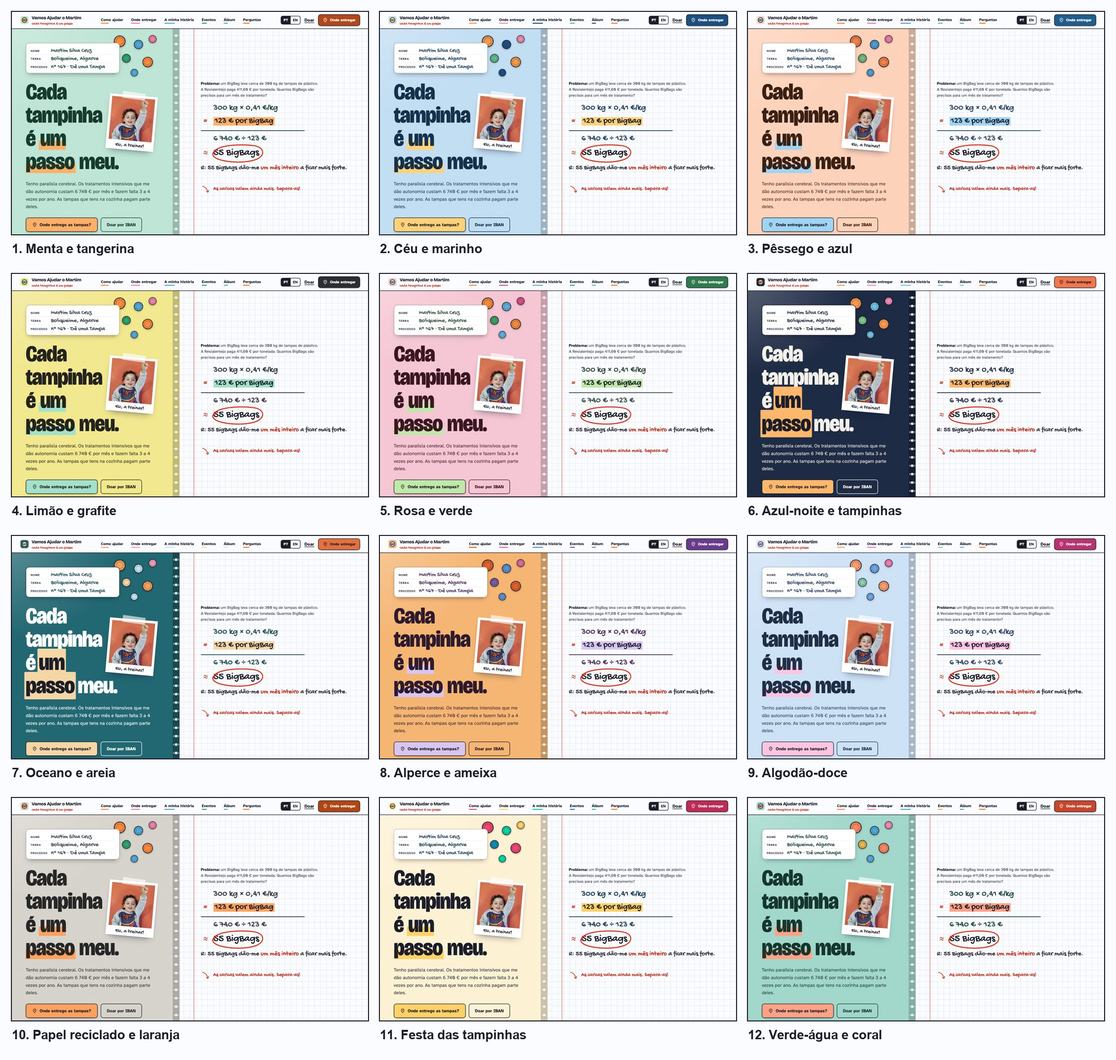
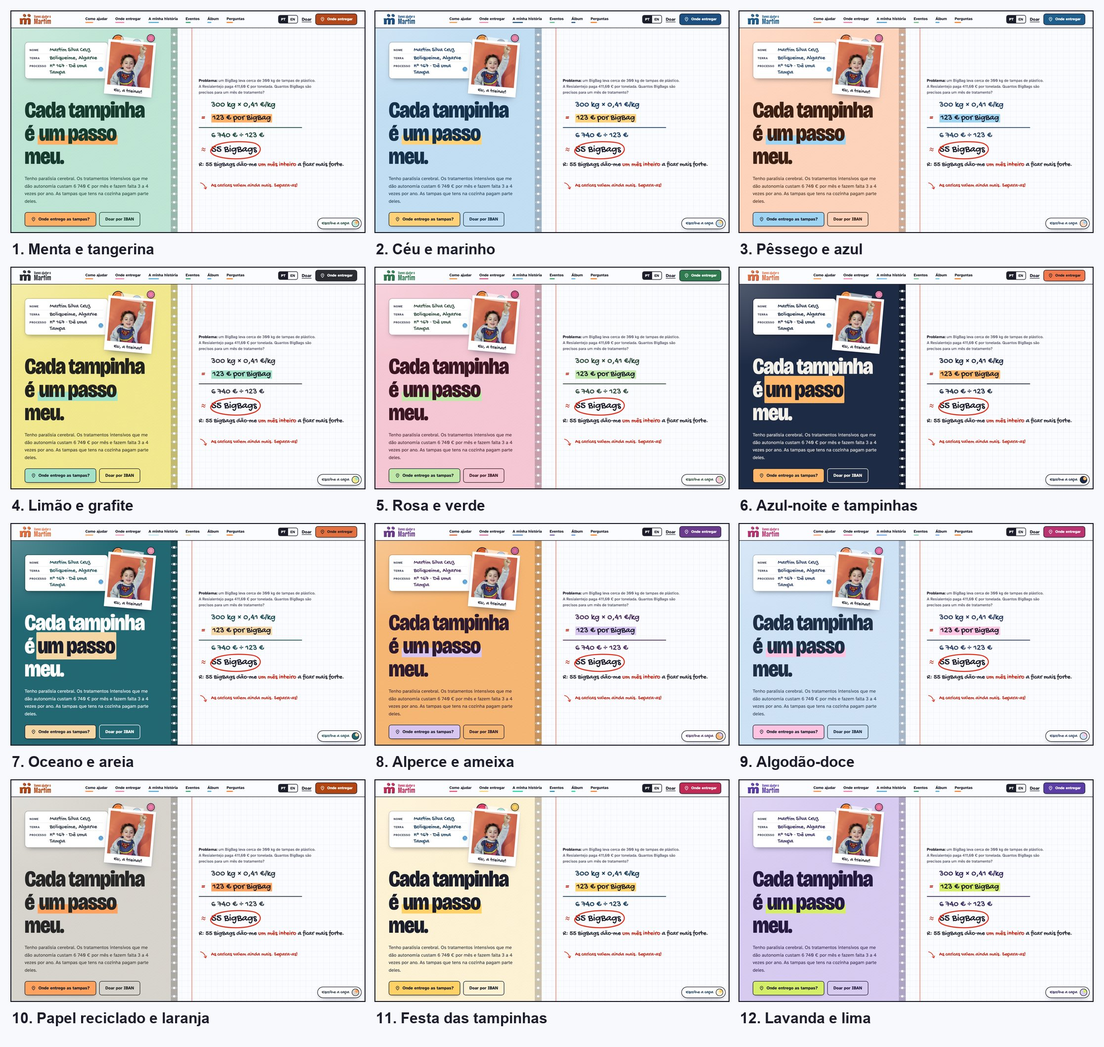
Capa 12 passa a Lavanda e lima; dica de cor no diploma; título do hero abaixo da foto; folha das 12 capas atualizada

diff --git a/mockup/js/site.js b/mockup/js/site.js
@@ -22,11 +22,11 @@ const PALETTES={
  algodao:{n:'Algodão-doce',cover:'#CFE3F7',on:'#1E2F45',hl:'#FFC4E1',pen:'#2B3F66',act:'#B8336F',ai:'#fff',caps:['#FF9C6B','#F07AB2','#6BA7E8','#8AD1B0']},
  reciclado:{n:'Papel reciclado e laranja',cover:'#D8D5CE',on:'#262626',hl:'#FFA25F',pen:'#2F3A45',act:'#B24612',ai:'#fff',caps:['#FF8A3D','#EE7FA8','#4FA8D8','#2FA36B']},
  festa:{n:'Festa das tampinhas',cover:'#FFF3D6',on:'#1B1D2A',hl:'#FFD166',pen:'#1A3E5C',act:'#C02A55',ai:'#fff',caps:['#EF476F','#FFD166','#06D6A0','#118AB2']},
- agua:{n:'Verde-água e coral',cover:'#A2D9CC',on:'#15352E',hl:'#FFA286',pen:'#1D4A42',act:'#C9452B',ai:'#fff',caps:['#FF8660','#F08AB0','#4FA8D8','#E8B84A']}
+ lavanda:{n:'Lavanda e lima',cover:'#D8CCF2',on:'#241A40',hl:'#D4EE6A',pen:'#34295E',act:'#5B3DA6',ai:'#fff',caps:['#FF8A3D','#F27BA5','#4FA8D8','#2FA36B']}
 };
-const NAMES_EN={menta:'Mint and tangerine',ceu:'Sky and navy',pessego:'Peach and blue',limao:'Lemon and graphite',rosa:'Pink and green',noite:'Midnight and caps',oceano:'Ocean and sand',alperce:'Apricot and plum',algodao:'Candyfloss',reciclado:'Recycled paper and orange',festa:'Bottle-cap party',agua:'Aqua and coral'};
+const NAMES_EN={menta:'Mint and tangerine',ceu:'Sky and navy',pessego:'Peach and blue',limao:'Lemon and graphite',rosa:'Pink and green',noite:'Midnight and caps',oceano:'Ocean and sand',alperce:'Apricot and plum',algodao:'Candyfloss',reciclado:'Recycled paper and orange',festa:'Bottle-cap party',lavanda:'Lavender and lime'};
 function palName(id){return EN?(NAMES_EN[id]||PALETTES[id].n):PALETTES[id].n}
-let PICKER=['menta','ceu','pessego','limao','rosa','noite','oceano','alperce','algodao','reciclado','festa','agua'];
+let PICKER=['menta','ceu','pessego','limao','rosa','noite','oceano','alperce','algodao','reciclado','festa','lavanda'];
 const root=document.documentElement;
 const FAV="<svg xmlns=\"http://www.w3.org/2000/svg\" viewBox=\"0 0 121.37 121.37\"><circle fill=\"{bg}\" cx=\"60.68\" cy=\"60.68\" r=\"60.68\"/><path fill=\"{b}\" d=\"M72.25,73.72c-.21,3.27-.42,6.44-.63,9.49-.11,1.31-.21,2.66-.31,4.05-.11,1.39-.22,2.75-.35,4.07-.13,1.32-.25,2.59-.35,3.8-.1,1.21-.21,2.28-.31,3.21l-17.17.86c.03-.25-1.53-1.53-1.53-1.53l1.72-.09c.33-2.94.61-5.55.83-7.85.26-2.71.46-5.04.59-6.99.13-1.95.22-3.58.27-4.89.05-1.31.06-2.36.04-3.15-.03-.79-.05-1.38-.08-1.76-.03-.38-.04-.63-.04-.74,0-1.53-.12-2.77-.35-3.72-.24-.95-.56-1.7-.98-2.25-.42-.54-.93-.91-1.53-1.1-.6-.19-1.27-.29-2-.29-.94,0-1.89.09-2.86.27-.97.18-1.83.53-2.59,1.06-.38.27-3.65.09-3.65.09,0,0,2.05,1.69,1.81,2.18-.47.98-.71,2.29-.71,3.93,0,3.11.01,6.14.04,9.1.03,2.96.09,5.62.2,8,.05,2.75.13,5.39.24,7.89l-18.66.9c.03-.2-1.53-1.53-1.53-1.53l1.75-.08c.3-2.33.5-4.61.6-6.85.13-2.75.2-5.23.2-7.44,0-4.14-.17-8.25-.51-12.33-.34-4.08-.93-8.31-1.76-12.7,3.34-.05,6.09-.12,8.23-.2,2.14-.08,3.84-.18,5.1-.29,1.46-.11,2.59-.23,3.37-.37l.16,4.95c1.1-.93,2.31-1.8,3.65-2.62,1.33-.82,2.73-1.52,4.19-2.11,1.46-.59,2.99-1.05,4.59-1.39,1.59-.34,3.23-.51,4.9-.51,1.88,0,3.54.08,4.98.22,1.44.15,2.69.44,3.76.86,1.07.42,1.97,1.01,2.7,1.76.73.75,1.36,1.71,1.88,2.88.94-.76,1.97-1.49,3.1-2.19,1.12-.7,2.35-1.31,3.68-1.84,1.33-.53,2.76-.95,4.27-1.25,1.51-.3,3.19-.45,5.02-.45,2.87,0,5.3.18,7.29.53,1.99.35,3.59,1.07,4.82,2.15,1.23,1.08,2.12,2.6,2.67,4.58.55,1.98.82,4.59.82,7.83,0,4.66-.21,9.33-.63,14.01-.42,4.68-.86,9.5-1.33,14.46l-17.17.86c.03-.21-1.53-1.53-1.53-1.53l1.73-.08c.52-4.31.89-7.99,1.09-11.04.24-3.42.38-6.18.43-8.28.05-2.1.05-3.62,0-4.56-.05-.94-.08-1.47-.08-1.57,0-1.5-.14-2.73-.43-3.68-.29-.95-.68-1.7-1.18-2.23-.5-.53-1.07-.89-1.72-1.08-.65-.19-1.37-.29-2.16-.29-.47,0-.99.02-1.57.06-.58.04-1.18.18-1.8.41-.63.23-1.24.59-1.84,1.08-.3.25-3.48.08-3.48.08,0,0,1.52,1.32,1.8,1.96.32.76.25,2.32.27,3.27.03.95.04,1.62.04,2Z\"/><path fill=\"{b}\" d=\"M101.26,34.37c0,1.29-.21,2.49-.63,3.6s-1.04,2.07-1.88,2.88-1.89,1.45-3.16,1.91-2.77.69-4.48.69c-1.88,0-3.45-.23-4.73-.69s-2.32-1.1-3.13-1.91-1.4-1.77-1.75-2.88-.53-2.31-.53-3.6.19-2.43.56-3.54c.38-1.11.97-2.08,1.78-2.91s1.87-1.49,3.16-1.97,2.84-.72,4.63-.72,3.33.24,4.6.72,2.32,1.14,3.13,1.97,1.42,1.81,1.82,2.91.59,2.29.59,3.54Z\"/><path fill=\"{b}\" d=\"M67.84,34.37c0,1.29-.21,2.49-.63,3.6-.42,1.11-1.04,2.07-1.88,2.88s-1.89,1.45-3.16,1.91-2.77.69-4.48.69c-1.88,0-3.45-.23-4.73-.69s-2.32-1.1-3.13-1.91-1.4-1.77-1.75-2.88-.53-2.31-.53-3.6.19-2.43.56-3.54c.38-1.11.97-2.08,1.78-2.91s1.87-1.49,3.16-1.97,2.84-.72,4.63-.72,3.33.24,4.6.72,2.32,1.14,3.13,1.97,1.42,1.81,1.82,2.91.59,2.29.59,3.54Z\"/><path fill=\"{c}\" d=\"M70.72,72.19c-.21,3.27-.42,6.44-.63,9.49-.11,1.31-.21,2.66-.31,4.05-.11,1.39-.22,2.75-.35,4.07-.13,1.32-.25,2.59-.35,3.8-.1,1.21-.21,2.28-.31,3.21l-15.45.77-1.72.09c.02-.17-1.53-1.53-1.53-1.53l1.73-.09c.34-2.97.6-5.53.83-7.85.26-2.71.46-5.04.59-6.99.13-1.95.22-3.58.27-4.89.05-1.31.06-2.36.04-3.15-.03-.79-.05-1.38-.08-1.76-.03-.38-.04-.63-.04-.74,0-1.53-.12-2.77-.35-3.72-.24-.95-.56-1.7-.98-2.25-.42-.54-.93-.91-1.53-1.1-.6-.19-1.27-.29-2-.29-.94,0-1.89.09-2.86.27-.97.18-1.83.53-2.59,1.06-.38.27-3.57.31-3.57.31,0,0,1.96,1.47,1.73,1.96-.47.98-.71,2.29-.71,3.93,0,3.11.01,6.14.04,9.1.03,2.96.09,5.62.2,8,.05,2.75.13,5.39.24,7.89l-16.91.82-.98.05-.77.04c.03-.24-1.53-1.53-1.53-1.53l1.75-.09c.3-2.33.5-4.61.6-6.84.13-2.75.2-5.23.2-7.44,0-4.14-.17-8.25-.51-12.33-.34-4.08-.93-8.31-1.76-12.7,3.34-.05,6.09-.12,8.23-.2,2.14-.08,3.84-.18,5.1-.29,1.46-.11,2.59-.23,3.37-.37l.16,4.95c1.1-.93,2.31-1.8,3.65-2.62,1.33-.82,2.73-1.52,4.19-2.11,1.46-.59,2.99-1.05,4.59-1.39,1.59-.34,3.23-.51,4.9-.51,1.88,0,3.54.08,4.98.22,1.44.15,2.69.44,3.76.86,1.07.42,1.97,1.01,2.7,1.76.73.75,1.36,1.71,1.88,2.88.94-.76,1.97-1.49,3.1-2.19,1.12-.7,2.35-1.31,3.68-1.84,1.33-.53,2.76-.95,4.27-1.25,1.51-.3,3.19-.45,5.02-.45,2.87,0,5.3.18,7.29.53,1.99.35,3.59,1.07,4.82,2.15,1.23,1.08,2.12,2.6,2.67,4.58.55,1.98.82,4.59.82,7.83,0,4.66-.21,9.33-.63,14.01-.42,4.68-.86,9.5-1.33,14.46l-15.45.77-1.71.09c.02-.17-1.53-1.53-1.53-1.53l1.75-.09c.53-4.35.86-7.97,1.07-11.04.24-3.42.38-6.18.43-8.28.05-2.1.05-3.62,0-4.56-.05-.94-.08-1.47-.08-1.57,0-1.5-.14-2.73-.43-3.68-.29-.95-.68-1.7-1.18-2.23-.5-.53-1.07-.89-1.72-1.08-.65-.19-1.37-.29-2.16-.29-.47,0-.99.02-1.57.06-.58.04-1.18.18-1.8.41-.63.23-1.24.59-1.84,1.08-.3.25-3.48.11-3.48.11,0,0,1.52,1.3,1.8,1.93.32.76.25,2.32.27,3.27.03.95.04,1.62.04,2Z\"/><path fill=\"{c}\" d=\"M99.73,32.84c0,1.29-.21,2.49-.63,3.6s-1.04,2.07-1.88,2.88-1.89,1.45-3.16,1.91-2.77.69-4.48.69c-1.88,0-3.45-.23-4.73-.69s-2.32-1.1-3.13-1.91-1.4-1.77-1.75-2.88c-.35-1.11-.53-2.31-.53-3.6s.19-2.43.56-3.54.97-2.08,1.78-2.91c.81-.83,1.87-1.49,3.16-1.97s2.84-.72,4.63-.72,3.33.24,4.6.72,2.32,1.14,3.13,1.97,1.42,1.81,1.82,2.91.59,2.29.59,3.54Z\"/><path fill=\"{c}\" d=\"M66.31,32.84c0,1.29-.21,2.49-.63,3.6s-1.04,2.07-1.88,2.88-1.89,1.45-3.16,1.91-2.77.69-4.48.69c-1.88,0-3.45-.23-4.73-.69s-2.32-1.1-3.13-1.91c-.81-.81-1.4-1.77-1.75-2.88s-.53-2.31-.53-3.6.19-2.43.56-3.54c.38-1.11.97-2.08,1.78-2.91s1.87-1.49,3.16-1.97,2.84-.72,4.63-.72,3.33.24,4.6.72,2.32,1.14,3.13,1.97,1.42,1.81,1.82,2.91.59,2.29.59,3.54Z\"/><path fill=\"{d}\" d=\"M69.19,70.66c-.21,3.27-.42,6.44-.63,9.49-.11,1.31-.21,2.66-.31,4.05-.11,1.39-.22,2.75-.35,4.07-.13,1.32-.25,2.59-.35,3.8-.1,1.21-.21,2.28-.31,3.21l-17.17.86c.42-3.6.76-6.75,1.02-9.47.26-2.71.46-5.04.59-6.99.13-1.95.22-3.58.27-4.89.05-1.31.06-2.36.04-3.15-.03-.79-.05-1.38-.08-1.76-.03-.38-.04-.63-.04-.74,0-1.53-.12-2.77-.35-3.72-.24-.95-.56-1.7-.98-2.25-.42-.54-.93-.91-1.53-1.1-.6-.19-1.27-.29-2-.29-.94,0-1.89.09-2.86.27-.97.18-1.83.53-2.59,1.06-.38.27-3.72.84-3.72.84,0,0,2.11.94,1.88,1.43-.47.98-.71,2.29-.71,3.93,0,3.11.01,6.14.04,9.1.03,2.96.09,5.62.2,8,.05,2.75.13,5.39.24,7.89l-18.66.9c.42-2.89.69-5.71.82-8.47.13-2.75.2-5.23.2-7.44,0-4.14-.17-8.25-.51-12.33-.34-4.08-.93-8.31-1.76-12.7,3.34-.05,6.09-.12,8.23-.2,2.14-.08,3.84-.18,5.1-.29,1.46-.11,2.59-.23,3.37-.37l.16,4.95c1.1-.93,2.31-1.8,3.65-2.62,1.33-.82,2.73-1.52,4.19-2.11,1.46-.59,2.99-1.05,4.59-1.39,1.59-.34,3.23-.51,4.9-.51,1.88,0,3.54.08,4.98.22,1.44.15,2.69.44,3.76.86,1.07.42,1.97,1.01,2.7,1.76.73.75,1.36,1.71,1.88,2.88.94-.76,1.97-1.49,3.1-2.19,1.12-.7,2.35-1.31,3.68-1.84,1.33-.53,2.76-.95,4.27-1.25,1.51-.3,3.19-.45,5.02-.45,2.87,0,5.3.18,7.29.53,1.99.35,3.59,1.07,4.82,2.15,1.23,1.08,2.12,2.6,2.67,4.58.55,1.98.82,4.59.82,7.83,0,4.66-.21,9.33-.63,14.01-.42,4.68-.86,9.5-1.33,14.46l-17.17.86c.63-5.02,1.06-9.24,1.29-12.66.24-3.42.38-6.18.43-8.28.05-2.1.05-3.62,0-4.56-.05-.94-.08-1.47-.08-1.57,0-1.5-.14-2.73-.43-3.68-.29-.95-.68-1.7-1.18-2.23-.5-.53-1.07-.89-1.72-1.08-.65-.19-1.37-.29-2.16-.29-.47,0-.99.02-1.57.06-.58.04-1.18.18-1.8.41-.63.23-1.24.59-1.84,1.08-.3.25-3.53.05-3.53.05,0,0,1.57,1.37,1.85,1.99.34.75.25,2.32.27,3.27.03.95.04,1.62.04,2Z\"/><path fill=\"{d}\" d=\"M98.2,31.31c0,1.29-.21,2.49-.63,3.6s-1.04,2.07-1.88,2.88c-.83.81-1.89,1.45-3.16,1.91s-2.77.69-4.48.69c-1.88,0-3.45-.23-4.73-.69s-2.32-1.1-3.13-1.91-1.4-1.77-1.75-2.88c-.35-1.11-.53-2.31-.53-3.6s.19-2.43.56-3.54c.38-1.11.97-2.08,1.78-2.91s1.87-1.49,3.16-1.97,2.84-.72,4.63-.72,3.33.24,4.6.72,2.32,1.14,3.13,1.97,1.42,1.81,1.82,2.91.59,2.29.59,3.54Z\"/><path fill=\"{d}\" d=\"M64.78,31.31c0,1.29-.21,2.49-.63,3.6s-1.04,2.07-1.88,2.88c-.83.81-1.89,1.45-3.16,1.91s-2.77.69-4.48.69c-1.88,0-3.45-.23-4.73-.69s-2.32-1.1-3.13-1.91-1.4-1.77-1.75-2.88c-.35-1.11-.53-2.31-.53-3.6s.19-2.43.56-3.54.97-2.08,1.78-2.91,1.87-1.49,3.16-1.97,2.84-.72,4.63-.72,3.33.24,4.6.72,2.32,1.14,3.13,1.97c.81.83,1.42,1.81,1.82,2.91.4,1.11.59,2.29.59,3.54Z\"/><path fill=\"#fff\" d=\"M48.51,31.96s.07.11.16.24c.63.97,1.53,1.75,2.52,2.3,2.62,1.47,6.25,1.39,8.43-.84.44-.44.71-.82.99-1.37.05-.1.15-.3.15-.3,0,0-.09.52-.15.69-.24.74-.94,1.91-1.8,2.54-2.75,2.04-6.94,1.45-9.17-1.12-.47-.54-.82-1.15-1.05-1.84-.05-.16-.08-.29-.08-.29Z\"/><path fill=\"#fff\" d=\"M51.22,26.12c-.79,0-1.42.96-1.42,2.15s.64,2.15,1.42,2.15,1.42-.96,1.42-2.15-.64-2.15-1.42-2.15ZM51.22,30.07c-.61,0-1.11-.75-1.11-1.67s.5-1.67,1.11-1.67,1.11.75,1.11,1.67-.5,1.67-1.11,1.67Z\"/><ellipse fill=\"#fff\" cx=\"51.38\" cy=\"27.9\" rx=\".53\" ry=\".79\" transform=\"translate(-3.97 9.08) rotate(-9.72)\"/><path fill=\"#fff\" d=\"M58.12,26.12c-.79,0-1.42.96-1.42,2.15s.64,2.15,1.42,2.15,1.42-.96,1.42-2.15-.64-2.15-1.42-2.15ZM58.12,30.07c-.61,0-1.11-.75-1.11-1.67s.5-1.67,1.11-1.67,1.11.75,1.11,1.67-.5,1.67-1.11,1.67Z\"/><ellipse fill=\"#fff\" cx=\"58.29\" cy=\"27.81\" rx=\".53\" ry=\".79\" transform=\"translate(-3.86 10.24) rotate(-9.72)\"/><path fill=\"#fff\" d=\"M81.93,31.96s.07.11.16.24c.63.97,1.53,1.75,2.52,2.3,2.62,1.47,6.25,1.39,8.43-.84.44-.44.71-.82.99-1.37.05-.1.15-.3.15-.3,0,0-.09.52-.15.69-.24.74-.94,1.91-1.8,2.54-2.75,2.04-6.94,1.45-9.17-1.12-.47-.54-.82-1.15-1.05-1.84-.05-.16-.08-.29-.08-.29Z\"/><path fill=\"#fff\" d=\"M90.04,28.26c0,1.18.64,2.15,1.42,2.15s1.42-.96,1.42-2.15c0-1.18-.64-2.15-1.42-2.15s-1.42.96-1.42,2.15ZM90.36,28.4c0-.92.5-1.67,1.11-1.67s1.11.75,1.11,1.67c0,.92-.5,1.67-1.11,1.67s-1.11-.75-1.11-1.67Z\"/><ellipse fill=\"#fff\" cx=\"91.31\" cy=\"27.9\" rx=\".79\" ry=\".53\" transform=\"translate(48.39 113.19) rotate(-80.28)\"/><path fill=\"#fff\" d=\"M83.15,28.26c0,1.18.64,2.15,1.42,2.15s1.42-.96,1.42-2.15c0-1.18-.64-2.15-1.42-2.15s-1.42.96-1.42,2.15ZM83.46,28.4c0-.92.5-1.67,1.11-1.67s1.11.75,1.11,1.67-.5,1.67-1.11,1.67-1.11-.75-1.11-1.67Z\"/><ellipse fill=\"#fff\" cx=\"84.4\" cy=\"27.81\" rx=\".79\" ry=\".53\" transform=\"translate(42.74 106.3) rotate(-80.28)\"/></svg>";
 /* escurece a cor até ter contraste mínimo sobre o papel (letras do logótipo) */

diff --git a/mockup/en/index.html b/mockup/en/index.html
@@ -17,7 +17,7 @@
 <link rel="preconnect" href="https://fonts.googleapis.com">
 <link rel="preconnect" href="https://fonts.gstatic.com" crossorigin>
 <link href="https://fonts.googleapis.com/css2?family=Atkinson+Hyperlegible:ital,wght@0,400;0,700;1,400&family=Bricolage+Grotesque:opsz,wdth,wght@12..96,75..100,400..800&family=Gochi+Hand&display=swap" rel="stylesheet">
-<link rel="stylesheet" href="../css/site.css?v=202609251813">
+<link rel="stylesheet" href="../css/site.css?v=202609251819">
 </head>
 <body>
 
@@ -244,6 +244,7 @@
           </div>
         </div>
         <div class="dip-actions"><button class="btn btn-red" type="button" id="dip-save"><svg aria-hidden="true"><use href="#i-down"/></svg>Save diploma</button><button class="btn btn-line" type="button" id="again">Play again</button></div>
+        <p class="dip-tip hand">Tip: the diploma changes colour with the cover. <button type="button" class="dip-tip-btn" id="dip-cover">Pick another cover</button> and save it in your favourite colour.</p>
         <div class="share" id="game-share" data-share-url="#ficha" data-share-text="">
           <span class="share-label">Challenge your friends:</span>
           <button class="btn btn-red share-native" type="button" data-share="native" hidden><svg aria-hidden="true"><use href="#i-share"/></svg>Share</button>
@@ -721,6 +722,7 @@ async function diplomaPNG(){
   x.font='800 30px "Bricolage Grotesque", sans-serif';x.fillText(LNG?'FRIEND OF':'AMIGO DO',0,-18);x.fillText('MARTIM',0,16);x.font='800 40px "Bricolage Grotesque", sans-serif';x.fillText('167',0,62);x.restore();
   return new Promise(r=>c.toBlob(r,'image/png'));
 }
+document.getElementById('dip-cover').addEventListener('click',e=>{e.stopPropagation();const t=document.querySelector('.paleta-toggle');if(t&&t.getAttribute('aria-expanded')!=='true')t.click()});
 document.getElementById('dip-save').addEventListener('click',async()=>{
   const blob=await diplomaPNG(),name=(LNG?'friend-of-martim-diploma':'diploma-amigo-do-martim')+'.png',file=new File([blob],name,{type:'image/png'});
   if(navigator.canShare&&navigator.canShare({files:[file]})){try{await navigator.share({files:[file],title:LNG?'Friend of Martim Diploma':'Diploma de Amigo do Martim',text:shareTxt()});return}catch(e){if(e.name==='AbortError')return}}
@@ -752,6 +754,6 @@ track.querySelectorAll('.play').forEach(b=>b.addEventListener('click',()=>{
 }));
 updCount();
 </script>
-<script src="../js/site.js?v=202609251813"></script>
+<script src="../js/site.js?v=202609251819"></script>
 </body>
 </html>

diff --git a/mockup/index.html b/mockup/index.html
@@ -17,7 +17,7 @@
 <link rel="preconnect" href="https://fonts.googleapis.com">
 <link rel="preconnect" href="https://fonts.gstatic.com" crossorigin>
 <link href="https://fonts.googleapis.com/css2?family=Atkinson+Hyperlegible:ital,wght@0,400;0,700;1,400&family=Bricolage+Grotesque:opsz,wdth,wght@12..96,75..100,400..800&family=Gochi+Hand&display=swap" rel="stylesheet">
-<link rel="stylesheet" href="css/site.css?v=202609251813">
+<link rel="stylesheet" href="css/site.css?v=202609251819">
 </head>
 <body>
 
@@ -244,6 +244,7 @@
           </div>
         </div>
         <div class="dip-actions"><button class="btn btn-red" type="button" id="dip-save"><svg aria-hidden="true"><use href="#i-down"/></svg>Guardar diploma</button><button class="btn btn-line" type="button" id="again">Jogar outra vez</button></div>
+        <p class="dip-tip hand">Dica: o diploma muda de cor com a capa. <button type="button" class="dip-tip-btn" id="dip-cover">Escolhe outra capa</button> e guarda-o na tua cor preferida.</p>
         <div class="share" id="game-share" data-share-url="#ficha" data-share-text="">
           <span class="share-label">Desafia os teus amigos:</span>
           <button class="btn btn-red share-native" type="button" data-share="native" hidden><svg aria-hidden="true"><use href="#i-share"/></svg>Partilhar</button>
@@ -721,6 +722,7 @@ async function diplomaPNG(){
   x.font='800 30px "Bricolage Grotesque", sans-serif';x.fillText(LNG?'FRIEND OF':'AMIGO DO',0,-18);x.fillText('MARTIM',0,16);x.font='800 40px "Bricolage Grotesque", sans-serif';x.fillText('167',0,62);x.restore();
   return new Promise(r=>c.toBlob(r,'image/png'));
 }
+document.getElementById('dip-cover').addEventListener('click',e=>{e.stopPropagation();const t=document.querySelector('.paleta-toggle');if(t&&t.getAttribute('aria-expanded')!=='true')t.click()});
 document.getElementById('dip-save').addEventListener('click',async()=>{
   const blob=await diplomaPNG(),name=(LNG?'friend-of-martim-diploma':'diploma-amigo-do-martim')+'.png',file=new File([blob],name,{type:'image/png'});
   if(navigator.canShare&&navigator.canShare({files:[file]})){try{await navigator.share({files:[file],title:LNG?'Friend of Martim Diploma':'Diploma de Amigo do Martim',text:shareTxt()});return}catch(e){if(e.name==='AbortError')return}}
@@ -752,6 +754,6 @@ track.querySelectorAll('.play').forEach(b=>b.addEventListener('click',()=>{
 }));
 updCount();
 </script>
-<script src="js/site.js?v=202609251813"></script>
+<script src="js/site.js?v=202609251819"></script>
 </body>
 </html>

diff --git a/mockup/css/site.css b/mockup/css/site.css
@@ -135,6 +135,8 @@ p{margin:0 0 1em;max-width:62ch}
 .tape{position:absolute;width:92px;height:28px;background:var(--tape);box-shadow:0 1px 2px rgba(0,0,0,.08);top:-12px;left:50%;transform:translateX(-50%) rotate(3deg)}
 .hero .photo{right:clamp(16px,2vw,28px);top:34px;width:clamp(160px,13.5vw,200px);transform:rotate(5deg);z-index:2}
 @media (max-width:1180px) and (min-width:901px){.hero .photo{width:150px;top:40px}}
+/* o título não pode ficar por baixo da foto (a partir de 1181px "Cada tampinha" cabe numa linha) */
+@media (min-width:1181px){.cover h1{margin-top:clamp(40px,3.6vw,64px)}}
 .sum{font-family:var(--hand);font-size:clamp(1.55rem,2.35vw,2.2rem);line-height:1.3;color:var(--pen)}
 .sum .q{font-family:var(--body);font-size:1rem;line-height:1.5;color:var(--pencil);max-width:46ch;margin-bottom:18px}
 .sum .q b{color:var(--ink)}
@@ -762,5 +764,8 @@ a.plain:hover{text-decoration:underline;text-decoration-color:var(--action)}
 .dip-seal span{font:800 .8rem/1.05 var(--display);text-transform:uppercase}
 .dip-seal b{font:800 1.5rem/1 var(--display)}
 .dip-actions{display:flex;flex-wrap:wrap;justify-content:center;gap:10px}
+.dip-tip{max-width:none;margin:14px 0 0;text-align:center;font-size:1.2rem;line-height:1.35;color:var(--pen)}
+.dip-tip-btn{font:inherit;color:inherit;background:linear-gradient(transparent 55%,var(--hl) 55%);border:0;padding:0 .15em;cursor:pointer;text-decoration:underline;text-decoration-thickness:1px;text-underline-offset:3px}
+.dip-tip-btn:focus-visible{outline:2px solid var(--pen);outline-offset:2px}
 @media (max-width:560px){.dip-paper{transform:none;outline-offset:-12px}.dip-foot{grid-template-columns:1fr 1fr}.dip-seal{grid-column:1/-1;grid-row:1;justify-self:center;width:96px;height:96px}.dip-sig .hand{font-size:1.5rem;min-width:0;padding:0 6px 4px}}
 @media (max-width:1180px) and (min-width:901px){.hero .label{width:calc(100% - 175px)}.hero .label .row{flex-direction:column;gap:0}.hero .label small{width:auto}}

diff --git a/index.html b/index.html
@@ -397,7 +397,7 @@ footer a{color:var(--on-cover)}
     </div>
     <div class="pals">
       <div class="pals-head"><h3>Escolhe a capa: 12 capas</h3><p>O site abre com a capa <b>Azul-noite e tampinhas</b>, onde as tampinhas coloridas brilham. Cada visitante pode trocar entre 12 capas num painel "Escolhe a capa" no canto do ecrã, e o site lembra-se da escolha. Em todas, as cores das tampinhas decoram a capa e os sublinhados do menu.</p></div>
-      <figure style="margin:0"><img src="img/paletas-12.jpg" alt="Doze versões do primeiro ecrã, uma por capa: menta, céu, pêssego, limão, rosa, azul-noite, oceano, alperce, algodão-doce, papel reciclado, festa das tampinhas e verde-água" width="2256" height="2144" style="border:2px solid var(--ink);border-radius:10px"></figure>
+      <figure style="margin:0"><img src="img/paletas-12.jpg" alt="Doze versões do primeiro ecrã, uma por capa: menta, céu, pêssego, limão, rosa, azul-noite, oceano, alperce, algodão-doce, papel reciclado, festa das tampinhas e lavanda" width="2256" height="2144" style="border:2px solid var(--ink);border-radius:10px"></figure>
       <div class="pals-picker">
         <img src="img/seletor-capas.jpg" alt="Painel Escolhe a capa do meu caderno aberto, com as 12 capas em grelha e o nome de cada uma" width="580" height="600">
         <div><h3>O seletor</h3><p>Um botão "Escolhe a capa" fixo no canto, com a cor atual. Ao tocar, abre um painel com as 12 capas e os nomes. Fecha ao escolher fora ou com Esc; funciona com teclado. No telemóvel fica por cima da barra "Onde entregar / Doar".</p><p>Por defeito: <span class="rec">6 · Azul-noite e tampinhas</span></p></div>

diff --git a/mockup/en/eventos/bff-solidario-2026.html b/mockup/en/eventos/bff-solidario-2026.html
@@ -17,7 +17,7 @@
 <link rel="preconnect" href="https://fonts.googleapis.com">
 <link rel="preconnect" href="https://fonts.gstatic.com" crossorigin>
 <link href="https://fonts.googleapis.com/css2?family=Atkinson+Hyperlegible:ital,wght@0,400;0,700;1,400&family=Bricolage+Grotesque:opsz,wdth,wght@12..96,75..100,400..800&family=Gochi+Hand&display=swap" rel="stylesheet">
-<link rel="stylesheet" href="../../css/site.css?v=202609251813">
+<link rel="stylesheet" href="../../css/site.css?v=202609251819">
 </head>
 <body class="sub">
 
@@ -184,6 +184,6 @@ document.querySelectorAll('.play').forEach(b=>b.addEventListener('click',()=>{
   <a class="btn btn-red" href="../index.html#doar"><svg aria-hidden="true"><use href="#i-heart"/></svg>Donate</a>
 </nav>
 
-<script src="../../js/site.js?v=202609251813"></script>
+<script src="../../js/site.js?v=202609251819"></script>
 </body>
 </html>

diff --git a/mockup/eventos/bff-solidario-2026.html b/mockup/eventos/bff-solidario-2026.html
@@ -17,7 +17,7 @@
 <link rel="preconnect" href="https://fonts.googleapis.com">
 <link rel="preconnect" href="https://fonts.gstatic.com" crossorigin>
 <link href="https://fonts.googleapis.com/css2?family=Atkinson+Hyperlegible:ital,wght@0,400;0,700;1,400&family=Bricolage+Grotesque:opsz,wdth,wght@12..96,75..100,400..800&family=Gochi+Hand&display=swap" rel="stylesheet">
-<link rel="stylesheet" href="../css/site.css?v=202609251813">
+<link rel="stylesheet" href="../css/site.css?v=202609251819">
 </head>
 <body class="sub">
 
@@ -184,6 +184,6 @@ document.querySelectorAll('.play').forEach(b=>b.addEventListener('click',()=>{
   <a class="btn btn-red" href="../index.html#doar"><svg aria-hidden="true"><use href="#i-heart"/></svg>Doar</a>
 </nav>
 
-<script src="../js/site.js?v=202609251813"></script>
+<script src="../js/site.js?v=202609251819"></script>
 </body>
 </html>

diff --git a/mockup/en/historia.html b/mockup/en/historia.html
@@ -17,7 +17,7 @@
 <link rel="preconnect" href="https://fonts.googleapis.com">
 <link rel="preconnect" href="https://fonts.gstatic.com" crossorigin>
 <link href="https://fonts.googleapis.com/css2?family=Atkinson+Hyperlegible:ital,wght@0,400;0,700;1,400&family=Bricolage+Grotesque:opsz,wdth,wght@12..96,75..100,400..800&family=Gochi+Hand&display=swap" rel="stylesheet">
-<link rel="stylesheet" href="../css/site.css?v=202609251813">
+<link rel="stylesheet" href="../css/site.css?v=202609251819">
 </head>
 <body class="sub">
 
@@ -167,6 +167,6 @@ document.querySelectorAll('.play').forEach(b=>b.addEventListener('click',()=>{
   <a class="btn btn-red" href="index.html#doar"><svg aria-hidden="true"><use href="#i-heart"/></svg>Donate</a>
 </nav>
 
-<script src="../js/site.js?v=202609251813"></script>
+<script src="../js/site.js?v=202609251819"></script>
 </body>
 </html>

diff --git a/mockup/en/cookies.html b/mockup/en/cookies.html
@@ -17,7 +17,7 @@
 <link rel="preconnect" href="https://fonts.googleapis.com">
 <link rel="preconnect" href="https://fonts.gstatic.com" crossorigin>
 <link href="https://fonts.googleapis.com/css2?family=Atkinson+Hyperlegible:ital,wght@0,400;0,700;1,400&family=Bricolage+Grotesque:opsz,wdth,wght@12..96,75..100,400..800&family=Gochi+Hand&display=swap" rel="stylesheet">
-<link rel="stylesheet" href="../css/site.css?v=202609251813">
+<link rel="stylesheet" href="../css/site.css?v=202609251819">
 </head>
 <body class="sub">
 
@@ -166,6 +166,6 @@ document.getElementById('esquecer').addEventListener('click',()=>{
   <a class="btn btn-red" href="index.html#doar"><svg aria-hidden="true"><use href="#i-heart"/></svg>Donate</a>
 </nav>
 
-<script src="../js/site.js?v=202609251813"></script>
+<script src="../js/site.js?v=202609251819"></script>
 </body>
 </html>

diff --git a/mockup/historia.html b/mockup/historia.html
@@ -17,7 +17,7 @@
 <link rel="preconnect" href="https://fonts.googleapis.com">
 <link rel="preconnect" href="https://fonts.gstatic.com" crossorigin>
 <link href="https://fonts.googleapis.com/css2?family=Atkinson+Hyperlegible:ital,wght@0,400;0,700;1,400&family=Bricolage+Grotesque:opsz,wdth,wght@12..96,75..100,400..800&family=Gochi+Hand&display=swap" rel="stylesheet">
-<link rel="stylesheet" href="css/site.css?v=202609251813">
+<link rel="stylesheet" href="css/site.css?v=202609251819">
 </head>
 <body class="sub">
 
@@ -167,6 +167,6 @@ document.querySelectorAll('.play').forEach(b=>b.addEventListener('click',()=>{
   <a class="btn btn-red" href="index.html#doar"><svg aria-hidden="true"><use href="#i-heart"/></svg>Doar</a>
 </nav>
 
-<script src="js/site.js?v=202609251813"></script>
+<script src="js/site.js?v=202609251819"></script>
 </body>
 </html>

diff --git a/mockup/cookies.html b/mockup/cookies.html
@@ -17,7 +17,7 @@
 <link rel="preconnect" href="https://fonts.googleapis.com">
 <link rel="preconnect" href="https://fonts.gstatic.com" crossorigin>
 <link href="https://fonts.googleapis.com/css2?family=Atkinson+Hyperlegible:ital,wght@0,400;0,700;1,400&family=Bricolage+Grotesque:opsz,wdth,wght@12..96,75..100,400..800&family=Gochi+Hand&display=swap" rel="stylesheet">
-<link rel="stylesheet" href="css/site.css?v=202609251813">
+<link rel="stylesheet" href="css/site.css?v=202609251819">
 </head>
 <body class="sub">
 
@@ -166,6 +166,6 @@ document.getElementById('esquecer').addEventListener('click',()=>{
   <a class="btn btn-red" href="index.html#doar"><svg aria-hidden="true"><use href="#i-heart"/></svg>Doar</a>
 </nav>
 
-<script src="js/site.js?v=202609251813"></script>
+<script src="js/site.js?v=202609251819"></script>
 </body>
 </html>

diff --git a/mockup/en/eventos/caminhada-26-setembro-2026.html b/mockup/en/eventos/caminhada-26-setembro-2026.html
@@ -17,7 +17,7 @@
 <link rel="preconnect" href="https://fonts.googleapis.com">
 <link rel="preconnect" href="https://fonts.gstatic.com" crossorigin>
 <link href="https://fonts.googleapis.com/css2?family=Atkinson+Hyperlegible:ital,wght@0,400;0,700;1,400&family=Bricolage+Grotesque:opsz,wdth,wght@12..96,75..100,400..800&family=Gochi+Hand&display=swap" rel="stylesheet">
-<link rel="stylesheet" href="../../css/site.css?v=202609251813">
+<link rel="stylesheet" href="../../css/site.css?v=202609251819">
 </head>
 <body class="sub">
 
@@ -170,6 +170,6 @@
   <a class="btn btn-red" href="../index.html#doar"><svg aria-hidden="true"><use href="#i-heart"/></svg>Donate</a>
 </nav>
 
-<script src="../../js/site.js?v=202609251813"></script>
+<script src="../../js/site.js?v=202609251819"></script>
 </body>
 </html>
